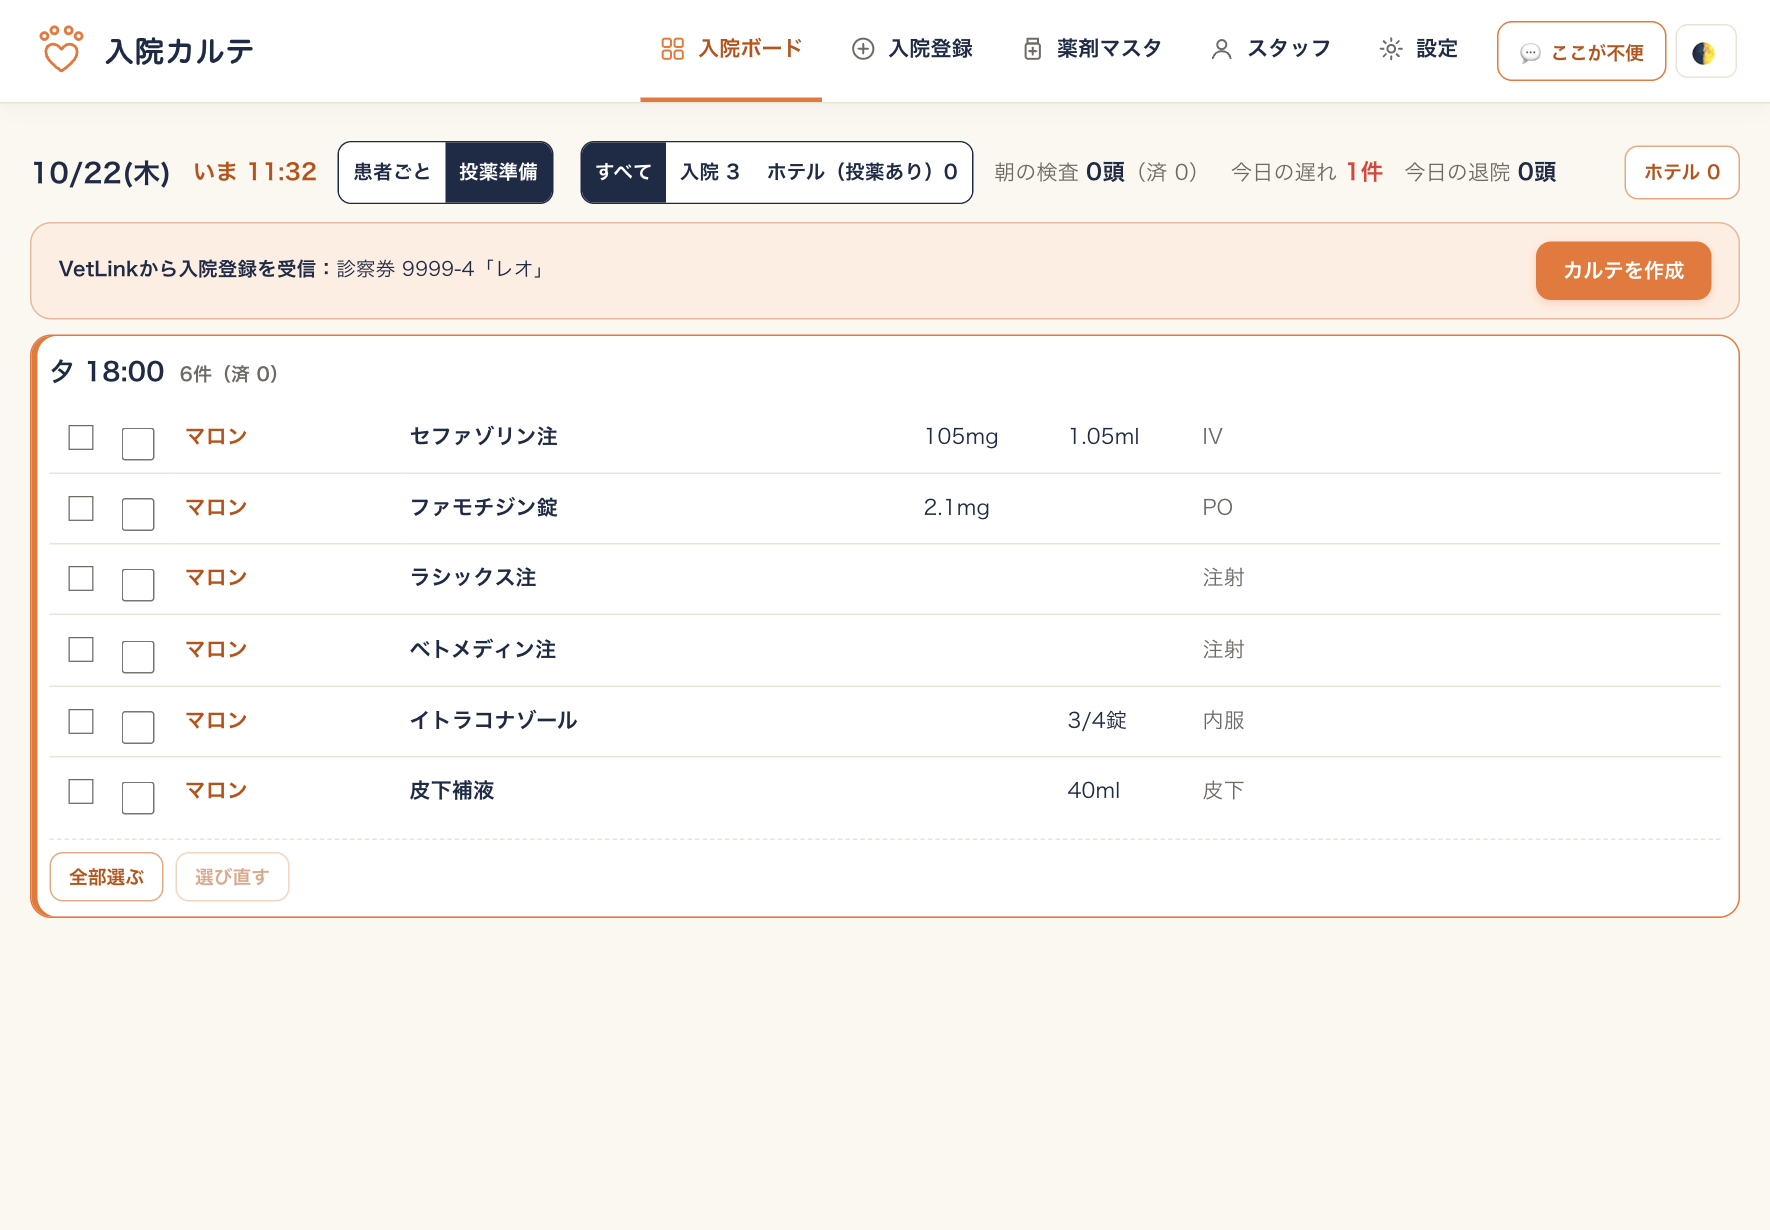
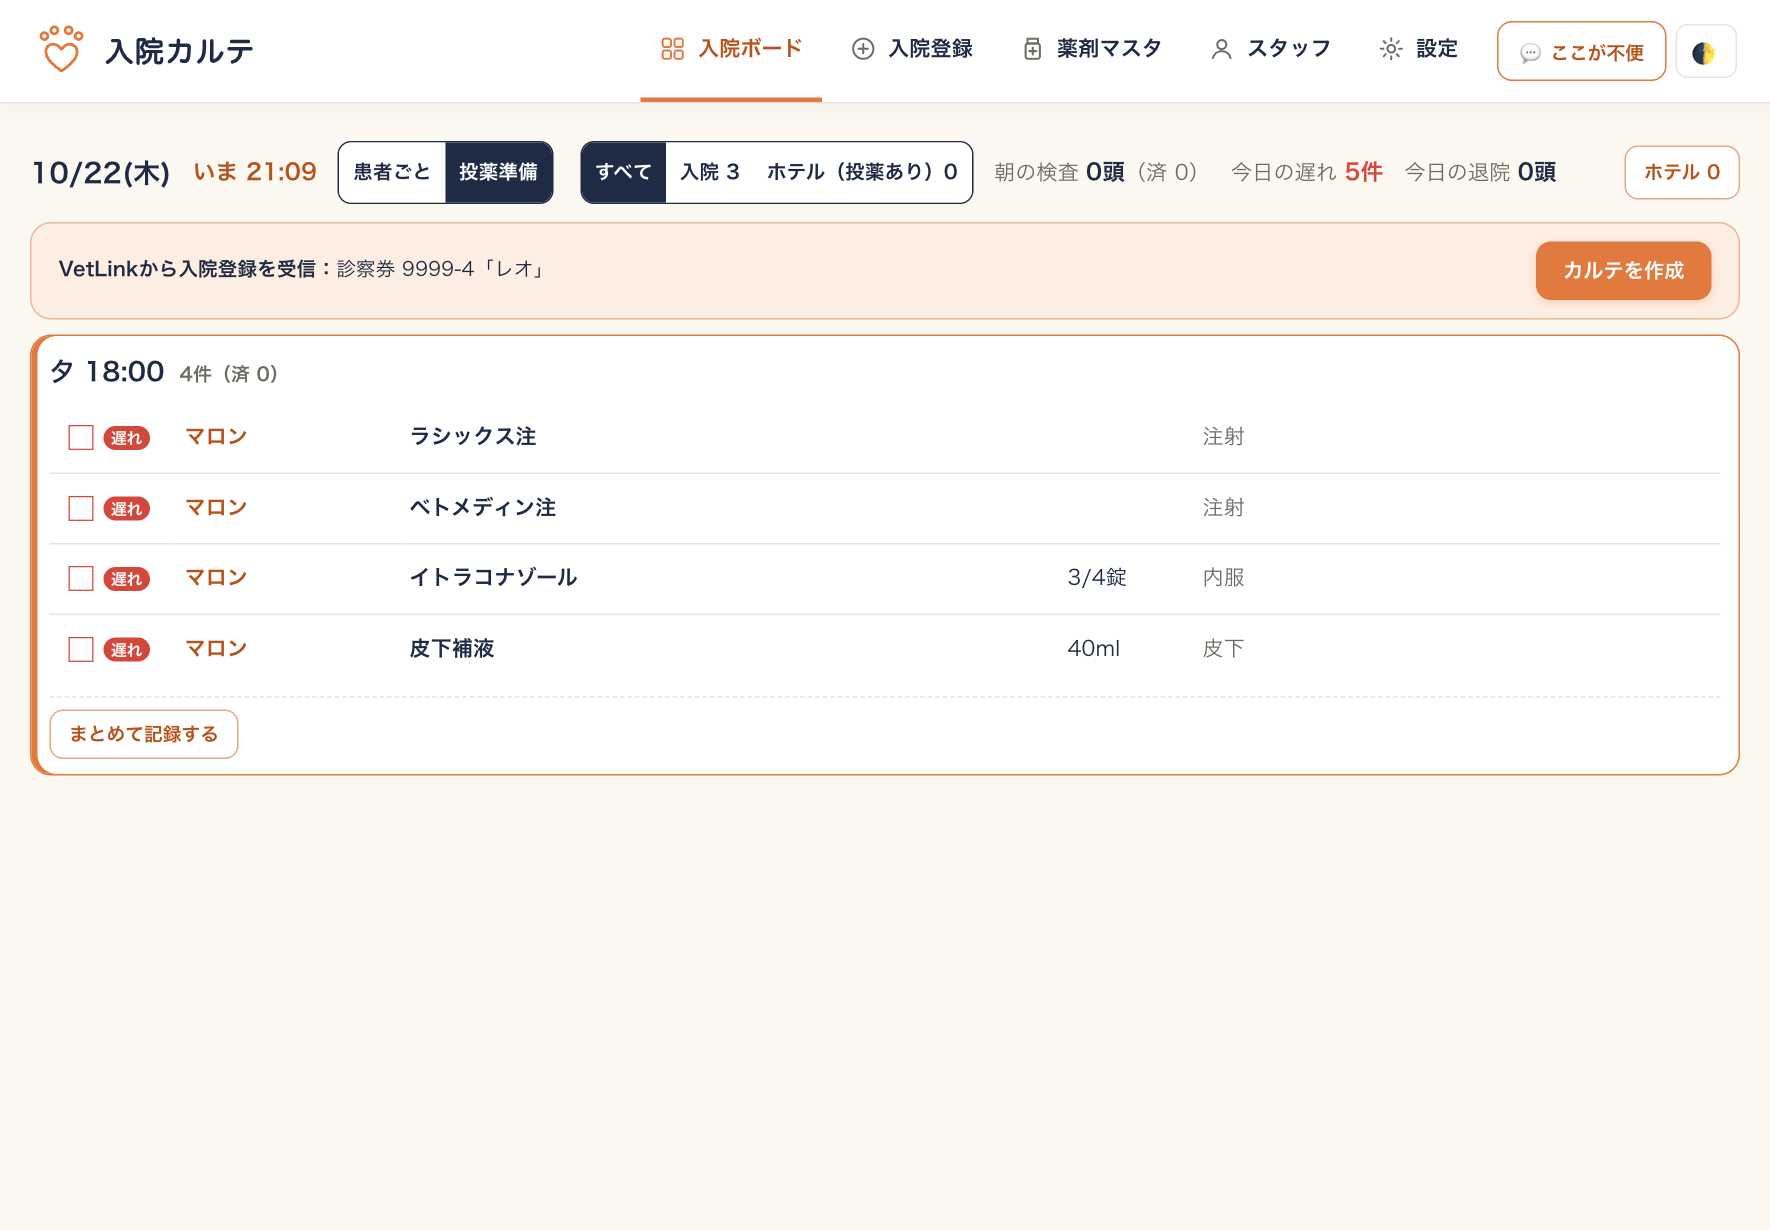
入院カルテ：投薬準備はふだん□だけ・「まとめて記録する」でチェックに替わる（2026-10-22）

diff --git a/nyuin.html b/nyuin.html
@@ -131,12 +131,12 @@
 <h3>3-2. 投薬準備</h3>
 <ul>
 <li>上の「<b>投薬準備</b>」を押すと、全頭（投薬のあるホテルの子も）の今日の投薬と、強制給餌・チューブの食事を<b>時刻ごとに1つの一覧</b>で見られます。今に一番近い時刻が上、過ぎた時刻は下です。</li>
-<li>各行の右の大きい <b>□</b> を押すと、記録の画面（実際に入れた量・記録者・「実施した」）が出ます。済むと<b>緑の ✓</b> になり、行の文字が薄くなります（済んだ行も消えずに残ります）。時刻を過ぎて済んでいないものは <b>□ が赤く「遅れ」</b>が付きます。✓ を押すと記録した時刻・記録者・量が見え、取り消せます。</li>
-<li><b>まとめて記録</b>：同じ時刻に2件以上あるときは、行の左に小さいチェック欄が出ます。チェックを付けて記録者を選び、「<b>選んだ ◯件を実施した</b>」で一度に記録できます。「全部選ぶ」もあります。</li>
+<li>各行の左の <b>□</b> を押すと、記録の画面（実際に入れた量・記録者・「実施した」）が出ます。済むと<b>緑の ✓</b> になり、行の文字が薄くなります（済んだ行も消えずに残ります）。時刻を過ぎて済んでいないものは <b>□ が赤く「遅れ」</b>が付きます。✓ を押すと記録した時刻・記録者・量が見え、取り消せます。</li>
+<li><b>まとめて記録</b>：同じ時刻に未実施が2件以上あるときは、表の下に「<b>まとめて記録する</b>」が出ます。押すと未実施の行の □ がチェック欄に替わります。チェックを付けて記録者を選び、「<b>選んだ ◯件を実施した</b>」で一度に記録できます。「全部選ぶ」もあります。「やめる」を押すと □ に戻ります。</li>
 <li>内服は「量」に「3/4錠」のように出ます（指示に1回の量が入っているとき）。処置は入っていません。</li>
 </ul>
 <img class="shot wide" src="nyuin-prep.png" alt="投薬準備">
-<div class="cap">▲ 投薬準備（架空データ）。左の小さいチェック＝まとめて選ぶ、右の □＝1つずつ記録</div>
+<div class="cap">▲ 投薬準備（架空データ）。□ を押すと1つずつ記録、表の下の「まとめて記録する」で同じ時刻の薬をまとめて記録</div>
 </div>
 
 <h2>4. 治療シートの見方<span class="badge b-staff" style="margin-left:6px">看護師</span><span class="badge b-vet">獣医師</span></h2>
@@ -227,7 +227,7 @@
 <li>注射・内服・皮下補液のマスを押すと、パネルの中に「<b>同じ時刻のほかの薬</b>」が並びます。押した薬は最初からチェック済みで、ほかはチェックを付けて選びます（「全部選ぶ」もあります）。</li>
 <li>皮下補液は、それぞれの行で実際に入れた量を直せます。記録者は1人選べば全部に入ります。</li>
 <li>ボタンは「<b>選んだ ◯件を実施した</b>」です。すでに済んでいる薬は ✓（済）で出て、選べません。</li>
-<li>時刻のまとめ入力の「投薬」、入院ボードの「投薬準備」でも、まとめて記録できます（5-2・3-2）。</li>
+<li>時刻のまとめ入力の「投薬」、入院ボードの「投薬準備」の「まとめて記録する」でも、まとめて記録できます（5-2・3-2）。</li>
 </ul>
 </div>
 
